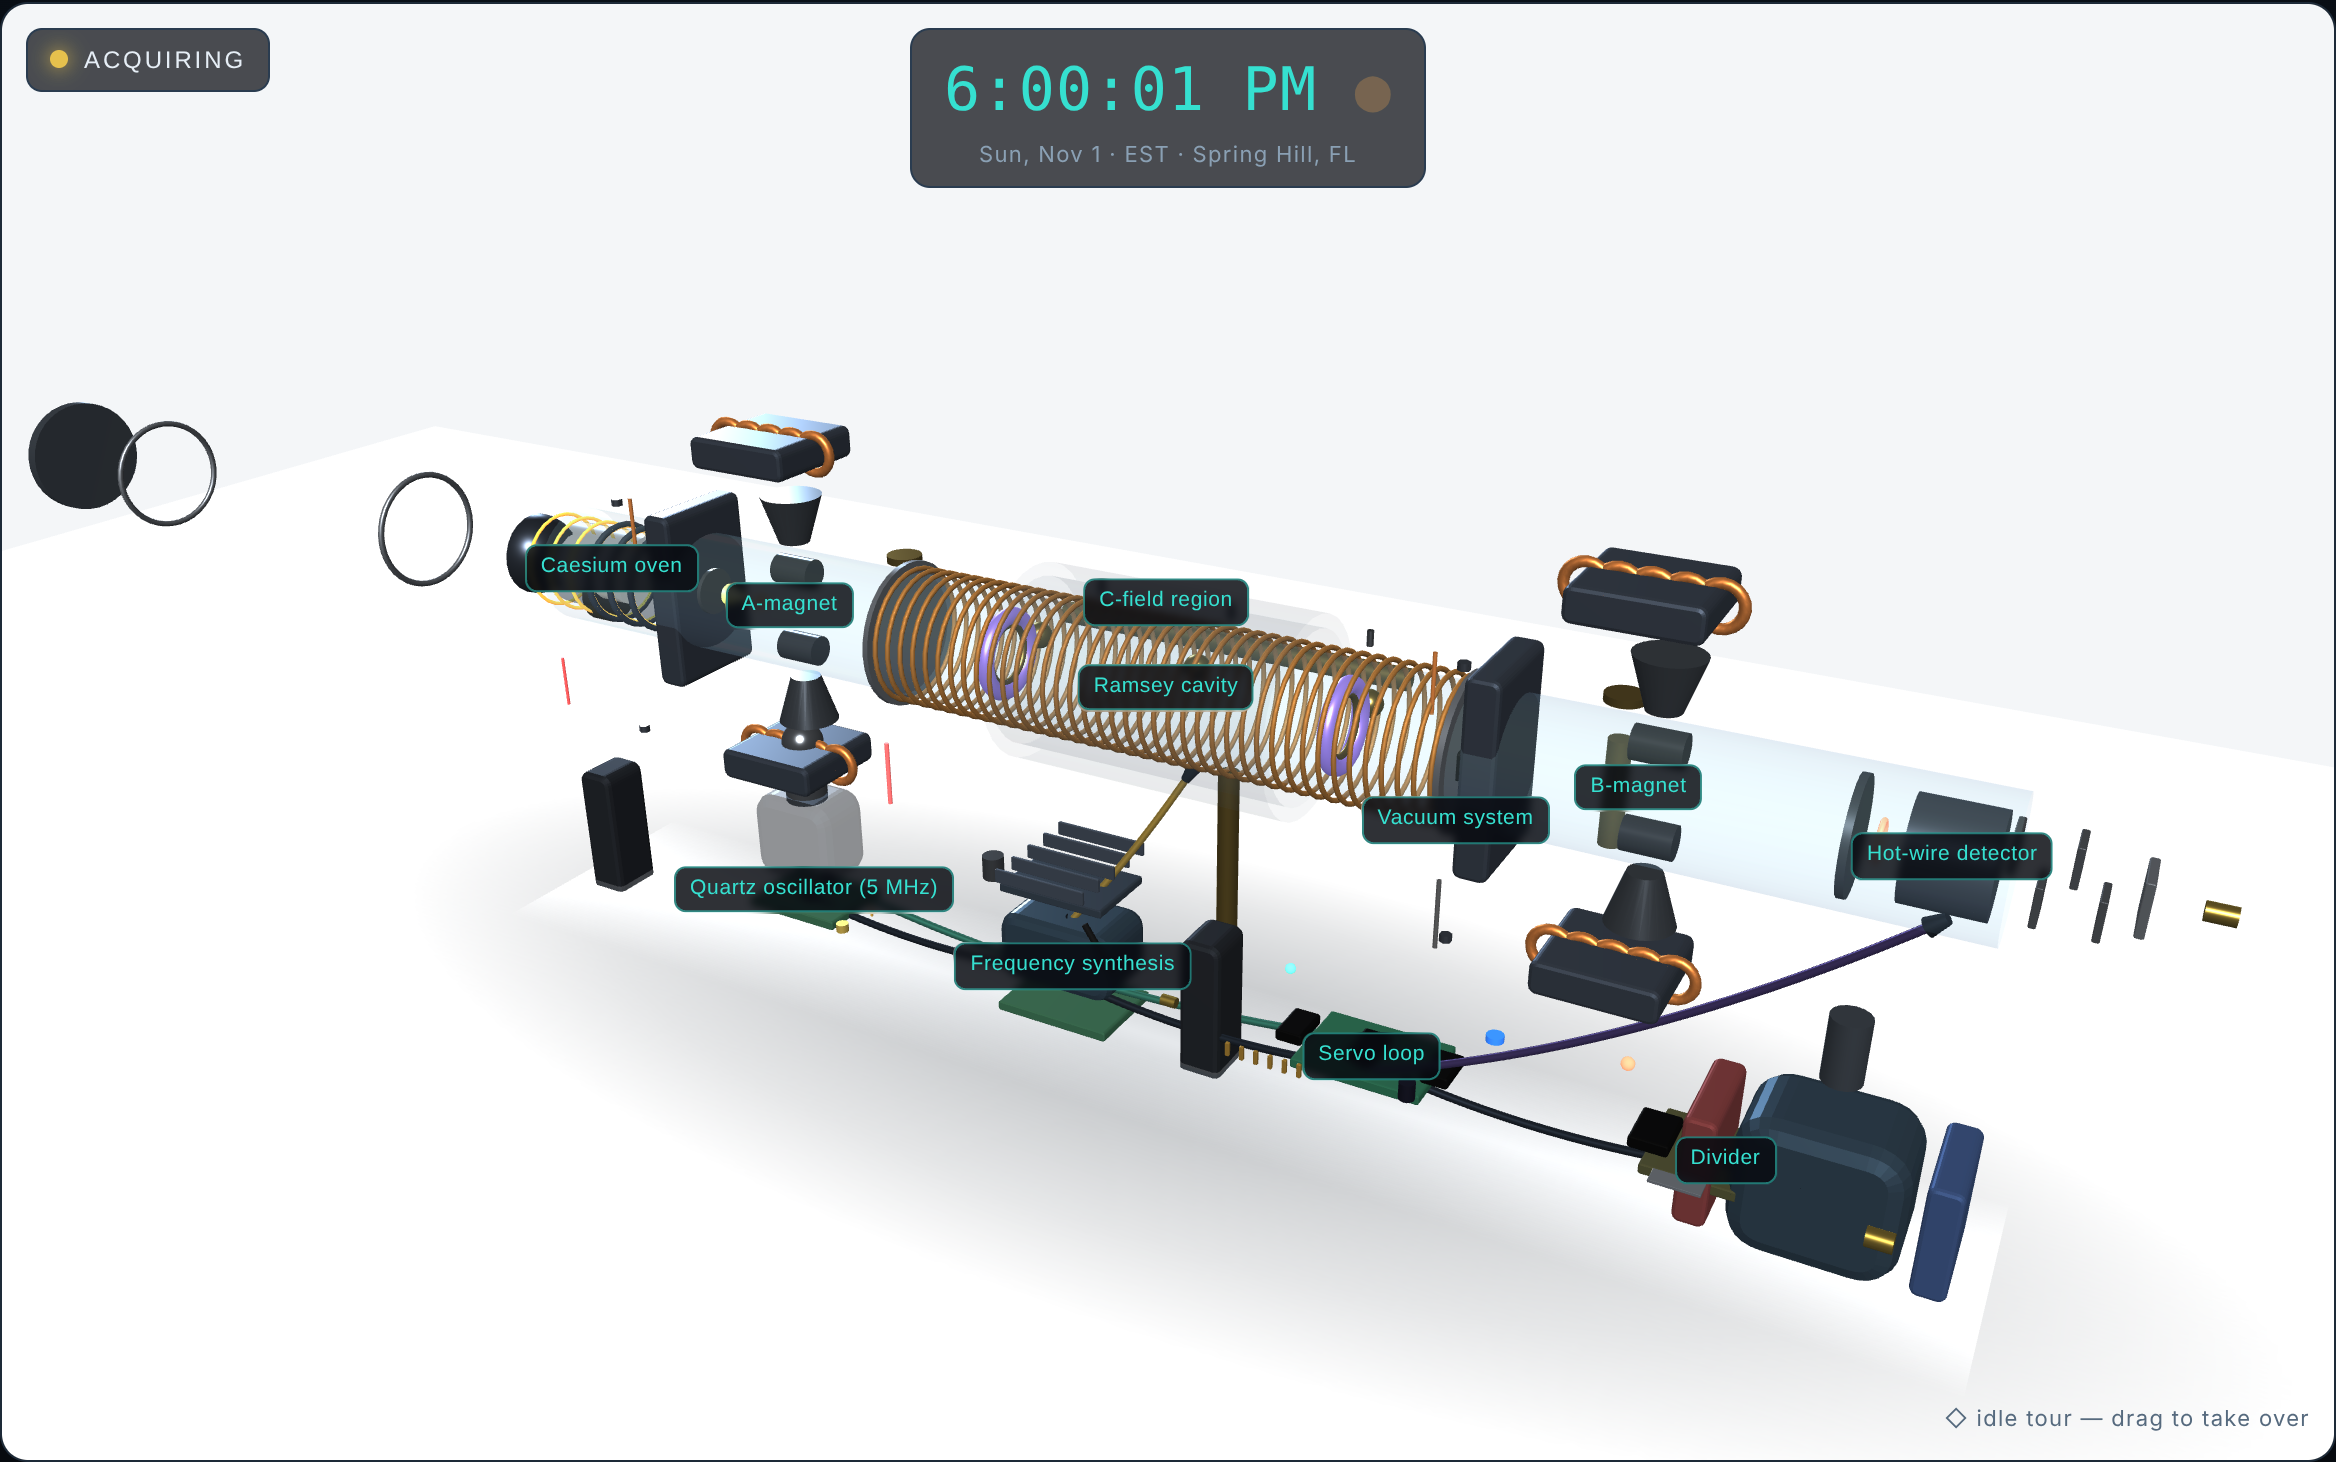
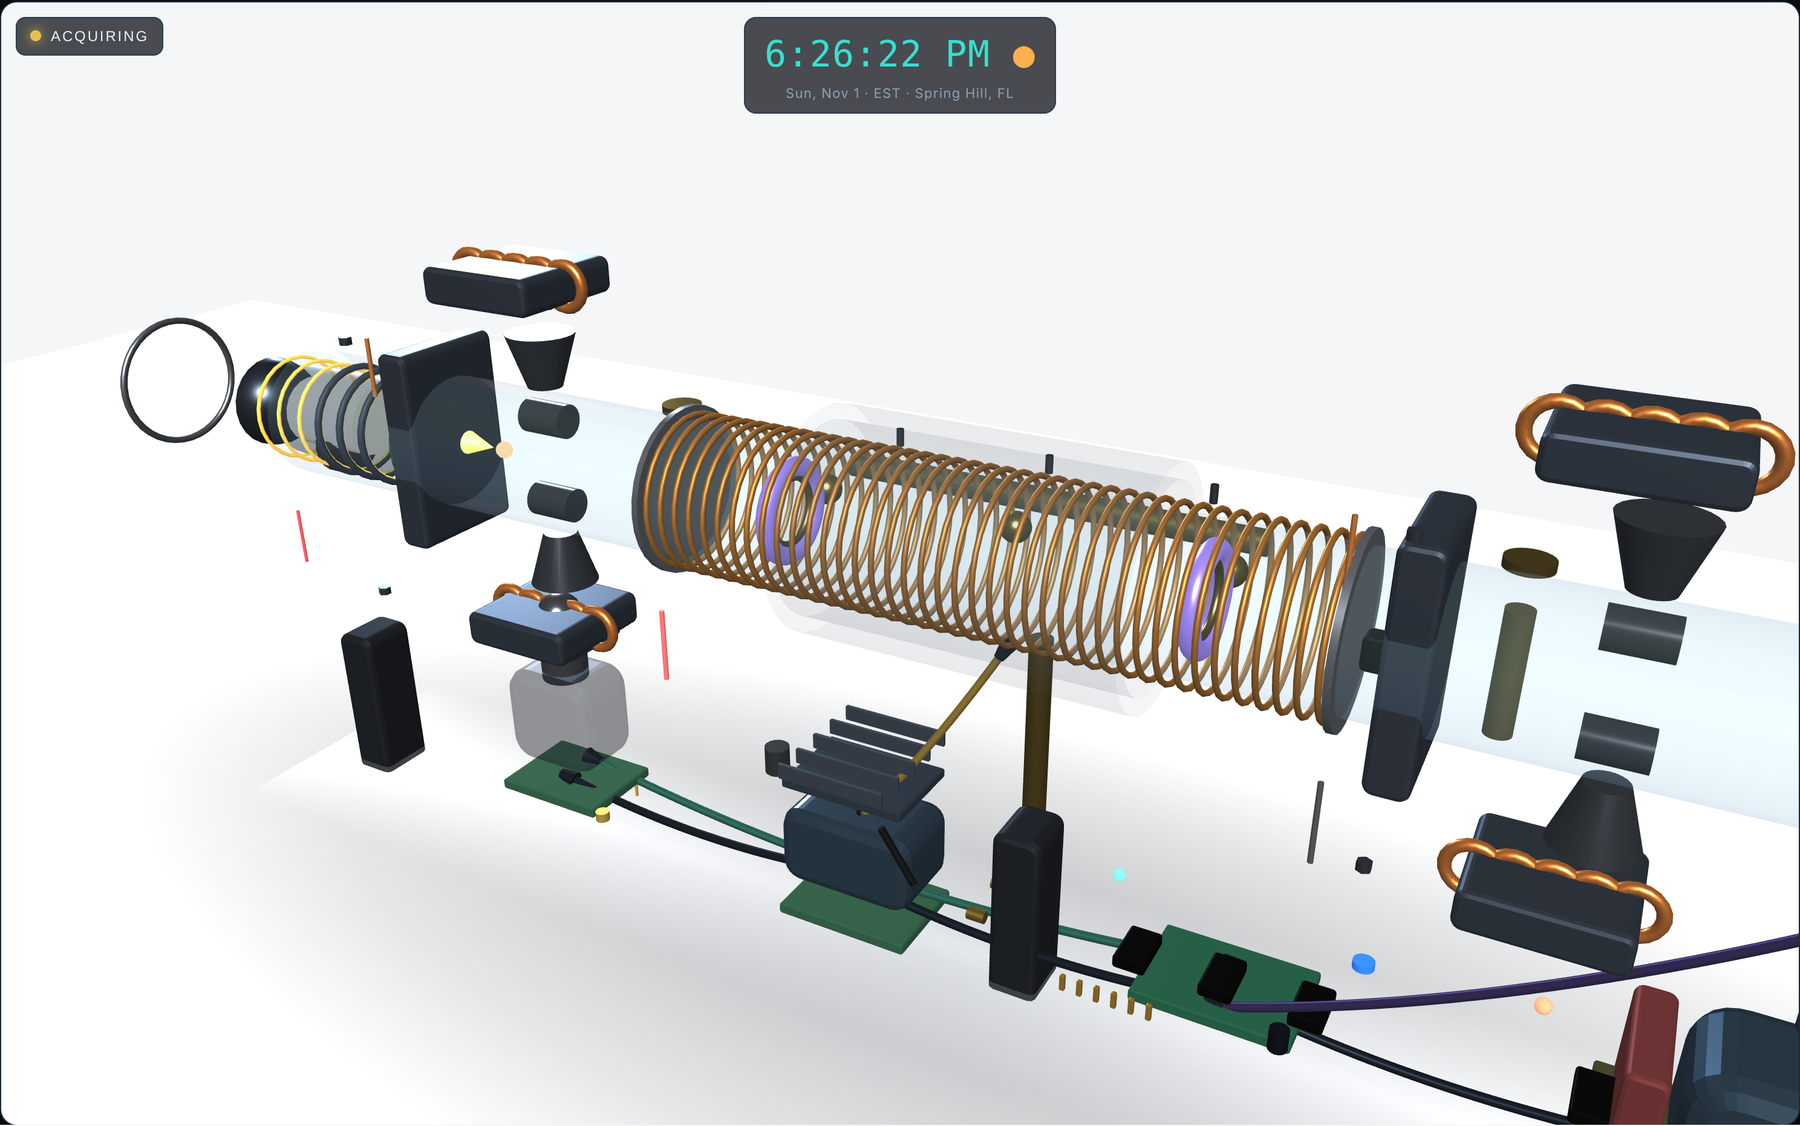
Re-render model screenshots: clean, supersampled, picture-perfect
Labels off for uncluttered model views (supersampled 3x -> smooth edges,
reduced-motion for stable framing); captions now carry the part labelling,
weighting text against image. Rebuilt the cover from the clean overview.

Claude-Session: https://claude.ai/code/session_01YXoVwwxemi4SoJ6UT6wZSp

diff --git a/posts/teardown-engine-to-atomic-clock/index.html b/posts/teardown-engine-to-atomic-clock/index.html
@@ -112,43 +112,43 @@
   <p>The 2019 SI defines the second by fixing the caesium frequency: the unperturbed ground-state hyperfine transition of caesium-133 is, by declaration, exactly <strong>9,192,631,770 hertz</strong>.<sup><a href="#ref-5">[5]</a></sup> A caesium clock doesn't measure the second so much as <em>realise</em> it. The build lays the whole apparatus out as a vacuum beam tube on a bench, and you can click any stage to fly into it.</p>
 
   <figure>
-    <img src="assets/shot-overview.png" alt="Screenshot: the full caesium beam line on a white bench, left to right — caesium oven, A-magnet, C-field solenoid and Ramsey cavity, B-magnet, hot-wire detector — with the electronics (quartz, synthesis, servo, divider) wired below, every component labelled, and a live clock reading 5:56 PM EST." width="2336" height="1462" loading="lazy">
-    <figcaption>Figure 3. The whole apparatus, labelled. Atoms stream left to right through the tube; the electronics loop &mdash; quartz, synthesis, servo, divider &mdash; runs beneath it. The clock, top centre, reads live Eastern time.</figcaption>
+    <img src="assets/shot-overview.png" alt="Screenshot: the full caesium beam line on a white bench, left to right — caesium oven, A-magnet, C-field solenoid and Ramsey cavity, B-magnet, hot-wire detector — with the electronics (quartz, synthesis, servo, divider) wired below and a live clock reading EST." width="1800" height="1126" loading="lazy">
+    <figcaption>Figure 3. The whole apparatus. Left to right through the glass tube: the caesium oven, the A-magnet, the C-field solenoid wrapping the Ramsey cavity, the B-magnet, and the hot-wire detector. Beneath it runs the electronics loop &mdash; quartz oscillator, frequency synthesis, servo, divider &mdash; wired back with coax. The clock, top centre, reads live Eastern time.</figcaption>
   </figure>
 
   <p>Click the oven and the camera flies in. Its shell turns semi-transparent and its parts get their own labels: the boron-nitride crucible, the shimmering caesium charge, the heater coil, the collimator, the beam aperture. The panel at the corner carries the real description and numbers for whatever you've selected.</p>
 
   <figure>
-    <img src="assets/shot-oven.png" alt="Screenshot: the caesium oven flown into and opened — labels for Heater coil, Collimator, Beam aperture and Thermocouple — with a corner panel reading 'Caesium-133 heated to ~100 C ... beam flux about 1e11 atoms/s'." width="2336" height="1462" loading="lazy">
-    <figcaption>Figure 4. Inside the oven. Caesium-133 is heated to about 100&nbsp;&deg;C; the vapour streams out as a beam, split between the two hyperfine ground states F=3 and F=4.</figcaption>
+    <img src="assets/shot-oven.png" alt="Screenshot: the caesium oven flown into and opened, its shell semi-transparent to show the crucible and heater coil inside, with a corner panel reading 'Caesium-133 heated to ~100 C ... beam flux about 1e11 atoms/s'." width="1800" height="1126" loading="lazy">
+    <figcaption>Figure 4. Inside the oven: the boron-nitride crucible and its caesium charge, wrapped in the heater coil, with the collimator and beam aperture at the exit. Caesium-133 is heated to about 100&nbsp;&deg;C; the vapour streams out as a beam, split between the two hyperfine ground states F=3 and F=4 &mdash; the figure shown in the corner panel.</figcaption>
   </figure>
 
   <p>The heart of it is the <strong>Ramsey cavity</strong>. Caesium-133's outer electron and its nucleus couple into two hyperfine ground states, F=3 and F=4; the clock works the field-insensitive transition between them, and it uses <strong>Ramsey's method of separated oscillatory fields</strong> &mdash; two microwave zones with a drift in between &mdash; to make the resonance razor-sharp, the technique that won Norman Ramsey a share of the 1989 Nobel Prize.<sup><a href="#ref-6">[6]</a></sup> In the build, the atoms are drawn as <strong>matter-wave packets</strong>, and an atom crossing the cavity shimmers between cyan and amber &mdash; a picture of a quantum superposition before it is measured.</p>
 
   <figure>
-    <img src="assets/shot-cavity.png" alt="Screenshot: the Ramsey cavity flown into, showing the two glowing microwave rings, the C-field solenoid, labelled sub-parts (Waveguide flange, Beam collar, Waveguide arm, Tuning screws, U-waveguide, Microwave feed), faint matter-wave atoms crossing the gap, and a panel reading 'microwave ON, delta = +385 Hz'." width="2336" height="1462" loading="lazy">
-    <figcaption>Figure 5. The Ramsey cavity, dissected. Microwaves at 9,192,631,770&nbsp;Hz strike the beam in two zones; atoms that see the exact resonance flip F=3&nbsp;&rarr;&nbsp;F=4. The readout shows the current detuning the servo is chasing.</figcaption>
+    <img src="assets/shot-cavity.png" alt="Screenshot: the Ramsey cavity flown into, showing the two glowing microwave rings, the brass waveguide and the C-field solenoid, with a panel reading 'microwave ON, delta Hz'." width="1800" height="1126" loading="lazy">
+    <figcaption>Figure 5. The Ramsey cavity, flown into: the two glowing microwave rings the beam threads through, the brass waveguide that feeds them, and the long C-field solenoid behind. Microwaves at 9,192,631,770&nbsp;Hz strike the beam in two zones; atoms that see the exact resonance flip F=3&nbsp;&rarr;&nbsp;F=4. The panel shows the current detuning the servo is chasing.</figcaption>
   </figure>
 
   <p>An <strong>exploded view</strong> slides every labelled part out from its sub-assembly at once, which is the fastest way to see how much is actually in there &mdash; the magnet yokes separating from their pole shoes and field coils, the oven from its crucible, the detector from its dynode stack.</p>
 
   <figure>
-    <img src="assets/shot-exploded.png" alt="Screenshot: the entire atomic clock in exploded view, every component separated along the beam line and still labelled, on the white bench." width="2336" height="1462" loading="lazy">
-    <figcaption>Figure 6. Exploded. Every tagged part spreads out from its sub-assembly, labels intact, so nothing hides behind anything else.</figcaption>
+    <img src="assets/shot-exploded.png" alt="Screenshot: the entire atomic clock in exploded view, every component separated along the beam line on the white bench." width="1800" height="1126" loading="lazy">
+    <figcaption>Figure 6. Exploded. Every part spreads out from its sub-assembly so nothing hides behind anything else &mdash; the magnet yokes lift off their pole shoes and field coils, the oven off its crucible, the detector off its dynode stack.</figcaption>
   </figure>
 
   <p>Underneath the beam tube runs the part most people forget is even in a clock: the electronics. A <strong>quartz oscillator</strong> is the thing that actually ticks; it is stable in the short term but drifts, so the atoms discipline it. The detector count peaks dead on resonance, and a <strong>servo</strong> dithers the microwave and steers the quartz onto that peak. When it is centred, the quartz is <em>locked to caesium</em>, and a <strong>divider</strong> cuts the 9,192,631,770&nbsp;Hz down to one pulse per second.<sup><a href="#ref-7">[7]</a></sup></p>
 
   <figure>
-    <img src="assets/shot-quartz.png" alt="Screenshot: the quartz oscillator flown into, showing its oven enclosure with the crystal can emerging, the board and trimmer, labelled, with its description panel." width="2336" height="1462" loading="lazy">
-    <figcaption>Figure 7. The quartz oscillator, flown into: a crystal in a thermostatted oven, disciplined by the atoms into a clock. This is the piece whose ticks become seconds.</figcaption>
+    <img src="assets/shot-quartz.png" alt="Screenshot: the quartz oscillator flown into, showing its oven enclosure with the crystal can emerging, the board and trimmer, with its description panel." width="1800" height="1126" loading="lazy">
+    <figcaption>Figure 7. The quartz oscillator, flown into: a crystal in a thermostatted oven, sitting on its board, disciplined by the atoms into a clock. This is the piece whose ticks become seconds.</figcaption>
   </figure>
 
   <h2>The numbers are real</h2>
   <p>None of this is a cartoon bolted onto a 3D model. The panels beneath the scene read values derived from the simulated physics: the live Eastern time and UTC, the defining frequency, a counter racing through the 9,192,631,770 cycles that make up the current second, the lock status, the detuning, the fractional offset, and an Allan-deviation figure. Beside them, the <strong>Ramsey fringe</strong> is plotted live, with a marker showing where the servo is sitting on the central fringe.</p>
 
   <figure>
-    <img src="assets/shot-readouts.png" alt="Screenshot: the instrument panels and the Ramsey fringe plot — Eastern Time, UTC, delta-nu-Cs = 9 192 631 770 Hz, cycles this second, lock status, detuning, fractional offset, Allan deviation — and a plotted Ramsey fringe with the servo lock point marked." width="2391" height="1195" loading="lazy">
+    <img src="assets/shot-readouts.png" alt="Screenshot: the instrument panels and the Ramsey fringe plot — Eastern Time, UTC, delta-nu-Cs = 9 192 631 770 Hz, cycles this second, lock status, detuning, fractional offset, Allan deviation — and a plotted Ramsey fringe with the servo lock point marked." width="1800" height="923" loading="lazy">
     <figcaption>Figure 8. The instrument panel. The Ramsey fringe (left) is computed and plotted live; the servo sits on its central peak. The counter top-right runs through this second's 9,192,631,770 cycles.</figcaption>
   </figure>
 
